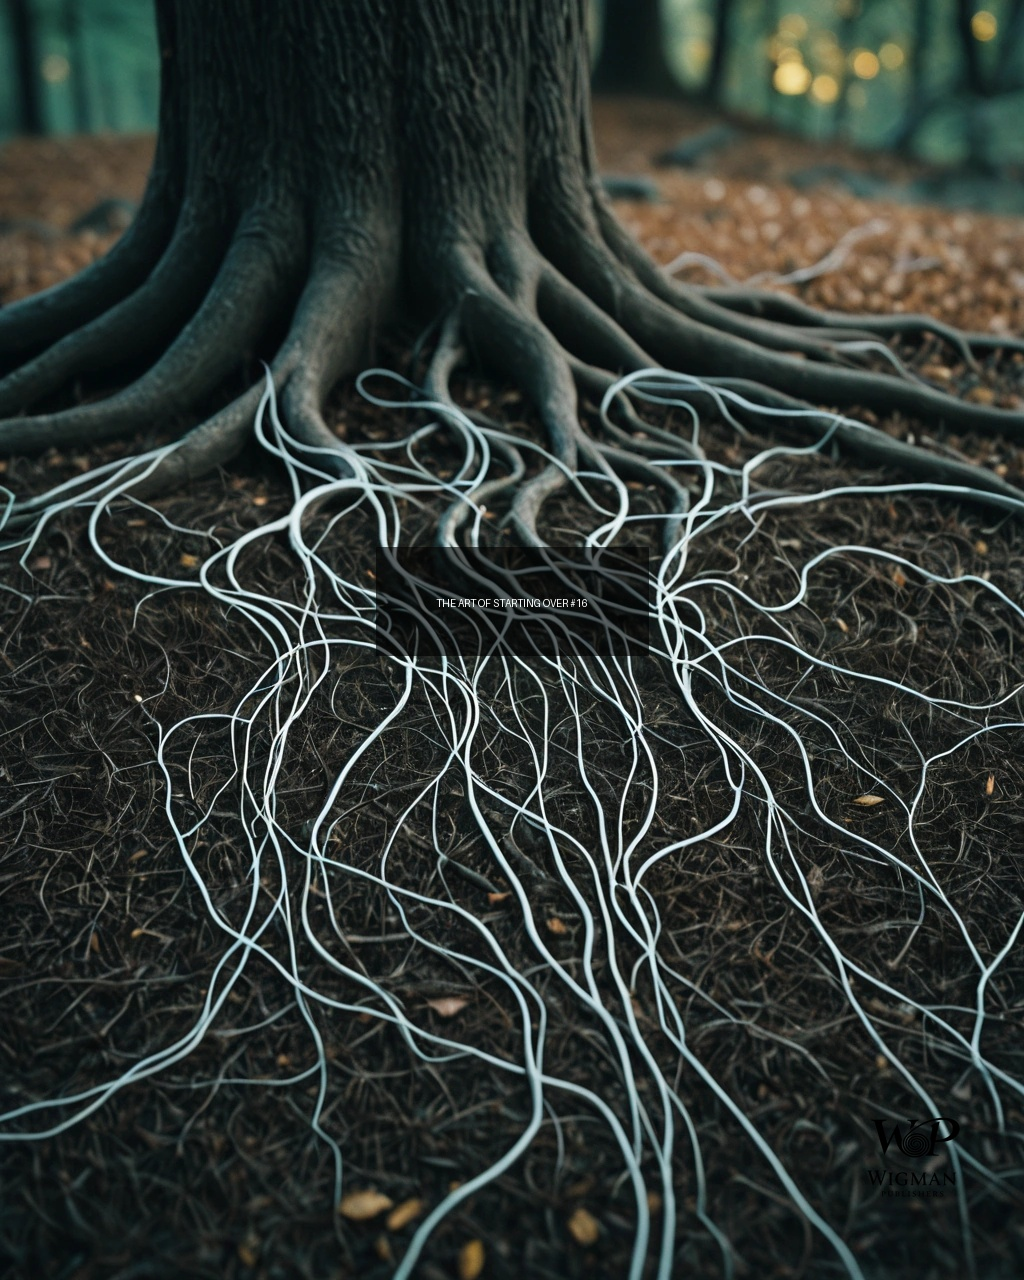
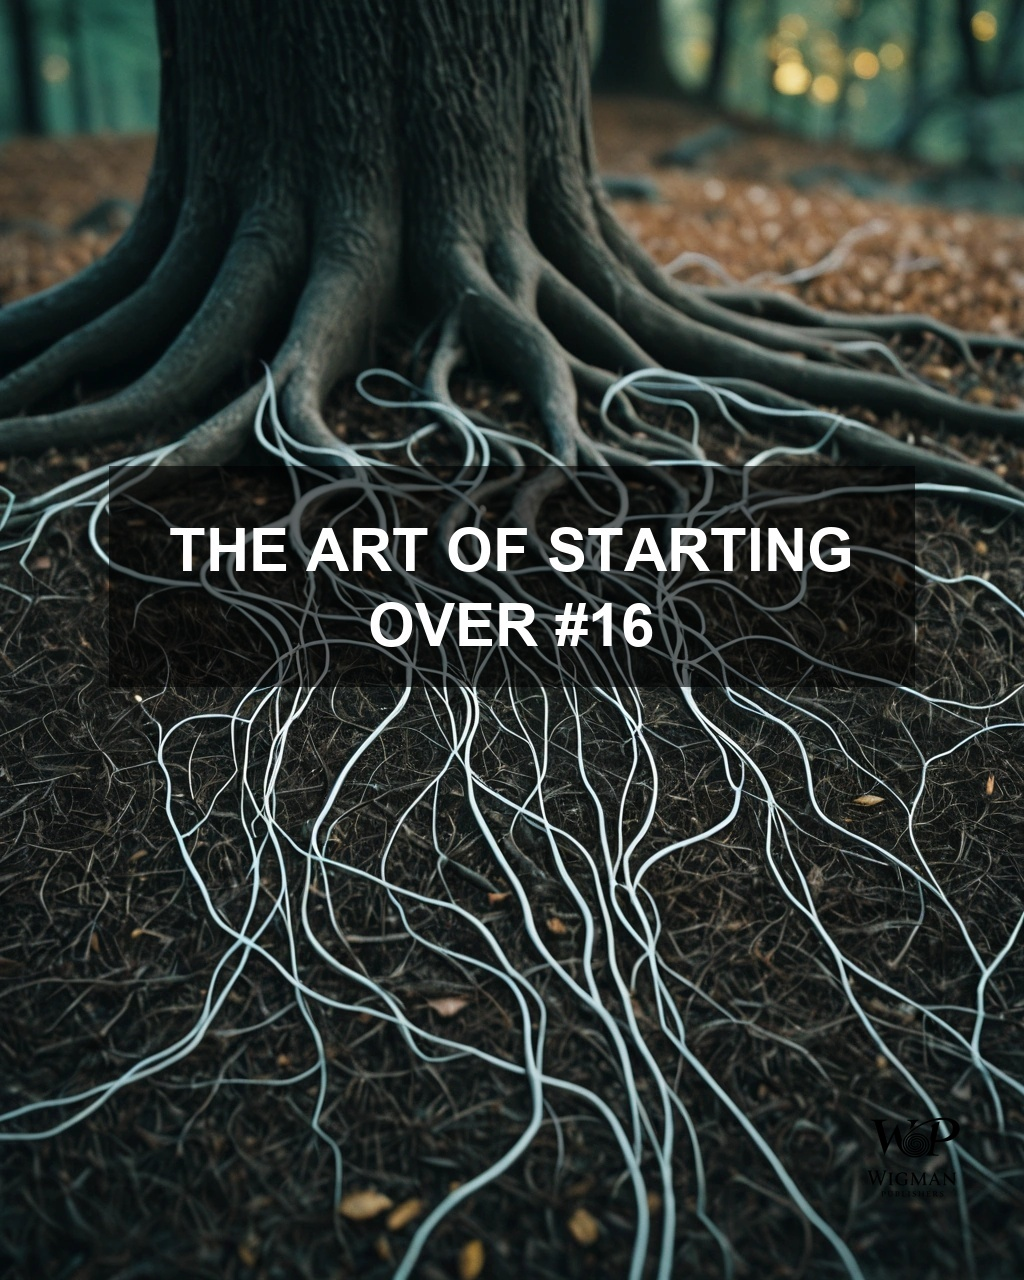
fix: brand_linkedin_image uses bot.py overlay functions (font 75/60, spacing 20, pad 60/50, alpha 150)
- Copy source to output.jpg FIRST, then apply bot.py functions
- Source image left untouched

Changed region(s): [[0.0938, 0.3438, 0.9062, 0.5625]]

diff --git a/scripts/brand_linkedin_image.py b/scripts/brand_linkedin_image.py
@@ -1,6 +1,16 @@
 #!/usr/bin/env python3
-"""LinkedIn image branding: logo watermark + centered text overlay -> output.jpg"""
-import os, sys, json, shutil
+"""
+LinkedIn image branding step.
+Uses bot.py's actual add_static_text_overlay + apply_logo_watermark.
+Reads active bundle image, applies branding, writes output.jpg.
+"""
+import os
+import sys
+import json
+import shutil
+
+# Prevent .env double-load noise
+os.environ.pop('LOADED_ENV', None)
 
 project_root = os.path.abspath(os.path.join(os.path.dirname(__file__), '..'))
 state_path = os.path.join(project_root, 'state.json')
@@ -10,7 +20,8 @@ with open(state_path) as f:
 
 active = state.get('active_bundle', {})
 if not active:
-    sys.exit("No active_bundle")
+    sys.exit("No active_bundle in state.json")
+
 image_rel = active.get('image')
 if not image_rel:
     sys.exit("No image in active_bundle")
@@ -18,7 +29,8 @@ if not image_rel:
 src = None
 for c in [image_rel, os.path.join(project_root, image_rel)]:
     if os.path.exists(c):
-        src = c; break
+        src = c
+        break
 if not src:
     sys.exit(f"Source not found: {image_rel}")
 
@@ -33,132 +45,34 @@ if post_id:
         with open(pp) as f:
             for p in json.load(f).get('posts', []):
                 if p.get('id') == post_id and p.get('title'):
-                    text = p['title']; break
+                    text = p['title']
+                    break
 if not text:
     text = (active.get('captions') or {}).get('linkedin', '').split('\n')[0].strip()
-print(f"Overlay: {text or '(none)'}")
+print(f"Overlay text: {text or '(none)'}")
 
-from PIL import Image, ImageDraw, ImageFont
+# --- Import bot.py functions (won't trigger main()) ---
+sys.path.insert(0, project_root)
+import importlib.util
+spec = importlib.util.spec_from_file_location('bot', os.path.join(project_root, 'bot.py'))
+bot = importlib.util.module_from_spec(spec)
+spec.loader.exec_module(bot)
 
-def _font(sz):
-    for p in [
-        "C:/Windows/Fonts/arialbd.ttf",
-        "C:/Windows/Fonts/segoeuib.ttf",
-        "arialbd.ttf",
-        "Arial Bold.ttf",
-    ]:
-        try: return ImageFont.truetype(p, size=sz)
-        except: pass
-    return ImageFont.load_default()
+add_static_text_overlay = bot.add_static_text_overlay
+apply_logo_watermark = bot.apply_logo_watermark
 
-def add_logo(img, lp):
-    if not os.path.exists(lp):
-        print(f"⚠ Logo missing: {lp}"); return
-    logo = Image.open(lp).convert("RGBA")
-    lw = 160; lh = int(logo.height * lw / logo.width)
-    logo = logo.resize((lw, lh), Image.Resampling.LANCZOS)
-    pad = 30; x = img.width - lw - pad; y = img.height - lh - pad
-    img.paste(logo, (x, y), logo)
-    print("✓ Logo applied")
+# --- Copy source to output.jpg, then brand the copy ---
+out_path = os.path.join(project_root, 'output.jpg')
+shutil.copy(src, out_path)
+print(f"Copied source to output.jpg ({os.path.getsize(out_path)} bytes)")
 
-def add_overlay(img, text):
-    if not text: return
-    draw = ImageDraw.Draw(img); w, h = img.size
-    fs = 72 if len(text) < 25 else 58
-    font = _font(fs)
-    pad_x, pad_y = 60, 50
-    max_tw = w - 160; max_th = h - 160
-    words = text.strip().upper().split()
-    lines, cur = [], ""
-    for word in words:
-        test = (cur + " " + word).strip()
-        bb = draw.textbbox((0,0), test, font=font)
-        if (bb[2]-bb[0]) > max_tw and cur: lines.append(cur); cur = word
-        else: cur = test
-    if cur: lines.append(cur)
-    wrapped = "\n".join(lines)
-    bb = draw.multiline_textbbox((0,0), wrapped, font=font, spacing=18, align="center")
-    tw, th = bb[2]-bb[0], bb[3]-bb[1]
-    while (tw > max_tw or th > max_th) and fs > 28:
-        fs -= 4; font = _font(fs)
-        lines, cur = [], ""
-        for word in words:
-            test = (cur + " " + word).strip()
-            bb = draw.textbbox((0,0), test, font=font)
-            if (bb[2]-bb[0]) > max_tw and cur: lines.append(cur); cur = word
-            else: cur = test
-        if cur: lines.append(cur)
-        wrapped = "\n".join(lines)
-        bb = draw.multiline_textbbox((0,0), wrapped, font=font, spacing=18, align="center")
-        tw, th = bb[2]-bb[0], bb[3]-bb[1]
-    bw = min(tw + pad_x*2, w-40); bh = min(th + pad_y*2, h-40)
-    bx = max(20, min(int((w-bw)//2), w-bw-20))
-    by = max(20, min(int((h-bh)//2 - h*0.03), h-bh-20))
-    layer = Image.new("RGBA", (w,h), (0,0,0,0))
-    ld = ImageDraw.Draw(layer)
-    ld.rectangle((bx, by, bx+bw, by+bh), fill=(0,0,0,155))
-    img2 = Image.alpha_composite(img.convert("RGBA"), layer).convert("RGB")
-    draw2 = ImageDraw.Draw(img2)
-    draw2.multiline_text(((w-tw)//2, by+pad_y), wrapped, font=font, fill=(255,255,255), spacing=18, align="center")
-    img2.save(os.path.join(project_root, 'output.jpg'), format="JPEG", quality=95, optimize=True)
-    print(f"✓ Overlay: {text}")
-    # Replace img reference
-    globals()['_last_img'] = img2
+# Apply branding to output.jpg (bot.py functions modify in-place)
+add_static_text_overlay(out_path, text)
+print(f"✓ Text overlay applied: '{text}' (bot.py)")
 
-logo_path = os.path.join(project_root, 'wp logo.png')
+apply_logo_watermark(out_path)
+print("✓ Logo watermark applied (bot.py)")
 
-img = Image.open(src).convert("RGB")
-add_logo(img, logo_path)
-
-_last_img = img
-if text:
-    # We need to re-open since add_logo modified in place but add_overlay creates new
-    img2 = Image.open(src).convert("RGB")
-    # Apply logo first on this copy too
-    logo = Image.open(logo_path).convert("RGBA")
-    lw = 160; lh = int(logo.height * lw / logo.width)
-    logo = logo.resize((lw, lh), Image.Resampling.LANCZOS)
-    pad = 30; x = img2.width - lw - pad; y = img2.height - lh - pad
-    img2.paste(logo, (x, y), logo)
-    # Now overlay
-    draw = ImageDraw.Draw(img2); w, h = img2.size
-    fs = 72 if len(text) < 25 else 58
-    font = _font(fs)
-    pad_x, pad_y = 60, 50
-    max_tw = w - 160; max_th = h - 160
-    words = text.strip().upper().split()
-    lines, cur = [], ""
-    for word in words:
-        test = (cur + " " + word).strip()
-        bb = draw.textbbox((0,0), test, font=font)
-        if (bb[2]-bb[0]) > max_tw and cur: lines.append(cur); cur = word
-        else: cur = test
-    if cur: lines.append(cur)
-    wrapped = "\n".join(lines)
-    bb = draw.multiline_textbbox((0,0), wrapped, font=font, spacing=18, align="center")
-    tw, th = bb[2]-bb[0], bb[3]-bb[1]
-    while (tw > max_tw or th > max_th) and fs > 28:
-        fs -= 4; font = _font(fs)
-        lines, cur = [], ""
-        for word in words:
-            test = (cur + " " + word).strip()
-            bb = draw.textbbox((0,0), test, font=font)
-            if (bb[2]-bb[0]) > max_tw and cur: lines.append(cur); cur = word
-            else: cur = test
-        if cur: lines.append(cur)
-        wrapped = "\n".join(lines)
-        bb = draw.multiline_textbbox((0,0), wrapped, font=font, spacing=18, align="center")
-        tw, th = bb[2]-bb[0], bb[3]-bb[1]
-    bw = min(tw + pad_x*2, w-40); bh = min(th + pad_y*2, h-40)
-    bx = max(20, min(int((w-bw)//2), w-bw-20))
-    by = max(20, min(int((h-bh)//2 - h*0.03), h-bh-20))
-    layer = Image.new("RGBA", (w,h), (0,0,0,0))
-    ld = ImageDraw.Draw(layer)
-    ld.rectangle((bx, by, bx+bw, by+bh), fill=(0,0,0,155))
-    img3 = Image.alpha_composite(img2.convert("RGBA"), layer).convert("RGB")
-    draw3 = ImageDraw.Draw(img3)
-    draw3.multiline_text(((w-tw)//2, by+pad_y), wrapped, font=font, fill=(255,255,255), spacing=18, align="center")
-    img3.save(os.path.join(project_root, 'output.jpg'), format="JPEG", quality=95, optimize=True)
-    print(f"✓ Overlay+Logo: {text}")
-
-print(f"Done: {os.path.getsize(os.path.join(project_root, 'output.jpg'))} bytes")
+size = os.path.getsize(out_path)
+print(f"✓ output.jpg final: {size} bytes")
+print("Done.")
